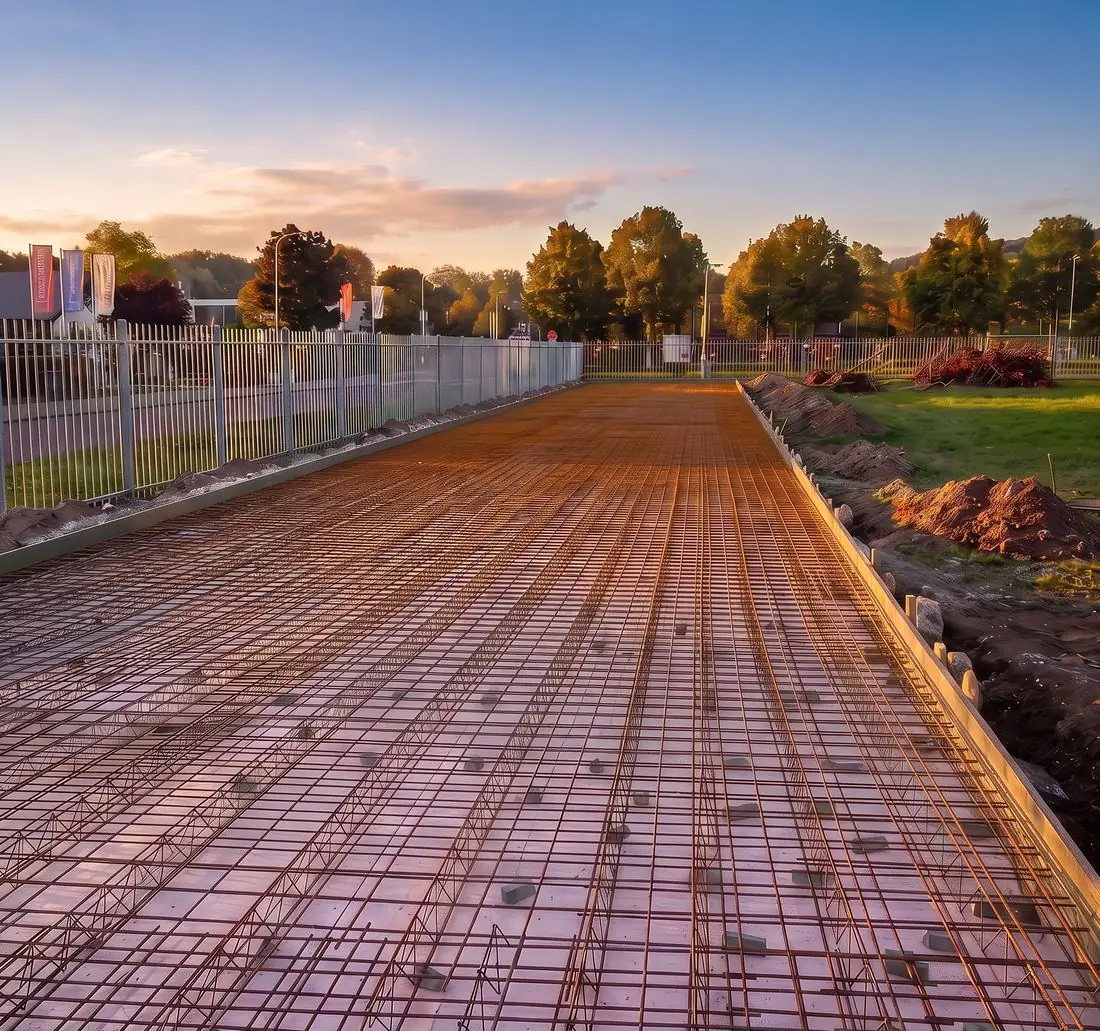
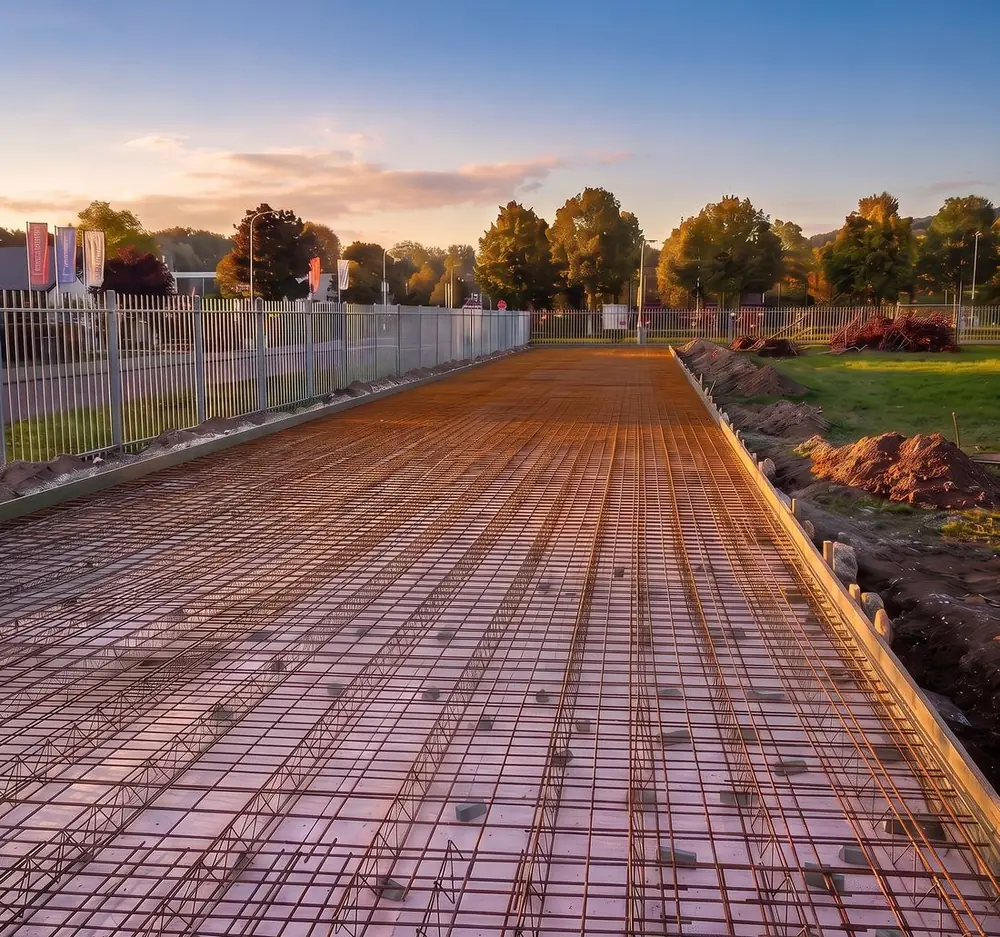
Home 06 Funderingen: voor/na-paar 1000 px breed zodat beide onder 200 KB blijven

diff --git a/index.html b/index.html
@@ -222,8 +222,8 @@
       <!-- 06 FUNDERING -->
       <article class="rij">
         <div class="vak"><div class="vitrine v-fundering" style="--bg:#474e5b;--tag:#e5e8eb">
-          <img class="beeld" src="assets/render/diensten/fundering-plaat-na.webp" alt="Dezelfde plek, de betonplaat gestort, met mantelbuizen voor de aansluitingen" loading="lazy" width="1100" height="1031">
-          <div class="voor"><img src="assets/render/diensten/fundering-plaat-voor.webp" alt="De wapening ligt op de isolatieplaten, klaar om te storten" loading="lazy" width="1100" height="1031"></div>
+          <img class="beeld" src="assets/render/diensten/fundering-plaat-na.webp" alt="Dezelfde plek, de betonplaat gestort, met mantelbuizen voor de aansluitingen" loading="lazy" width="1000" height="937">
+          <div class="voor"><img src="assets/render/diensten/fundering-plaat-voor.webp" alt="De wapening ligt op de isolatieplaten, klaar om te storten" loading="lazy" width="1000" height="937"></div>
           <div class="greep"></div>
           <span class="vl t">Voor</span><span class="vl o">Na</span>
           <span class="tag" style="left:auto;right:7%">degelijk voorbereid</span>
